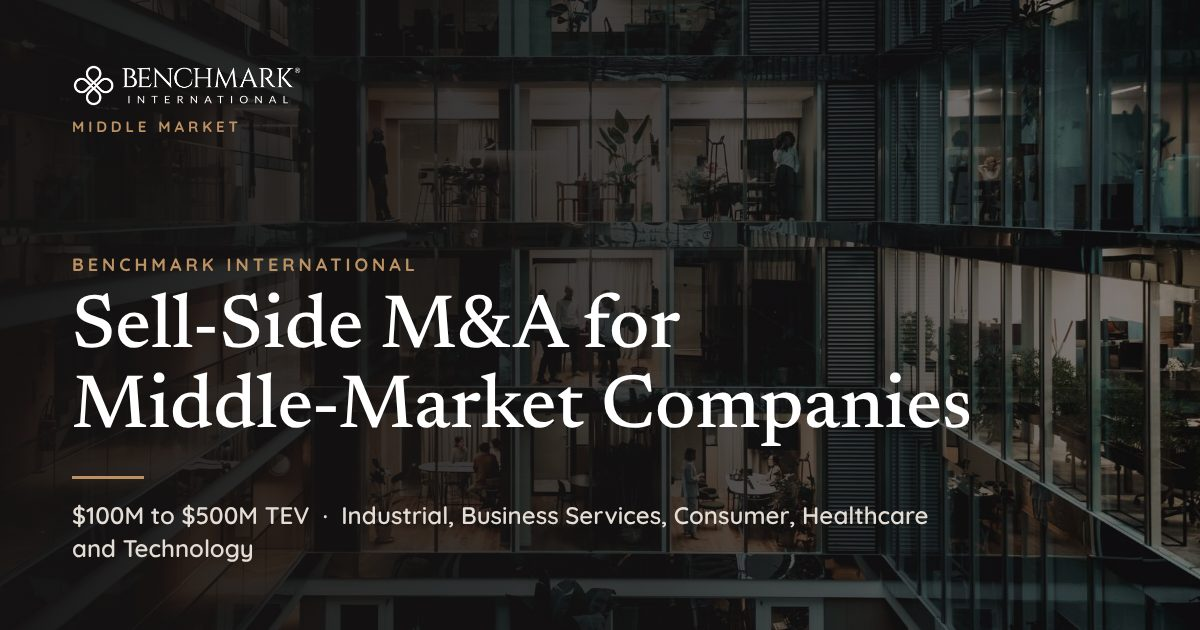
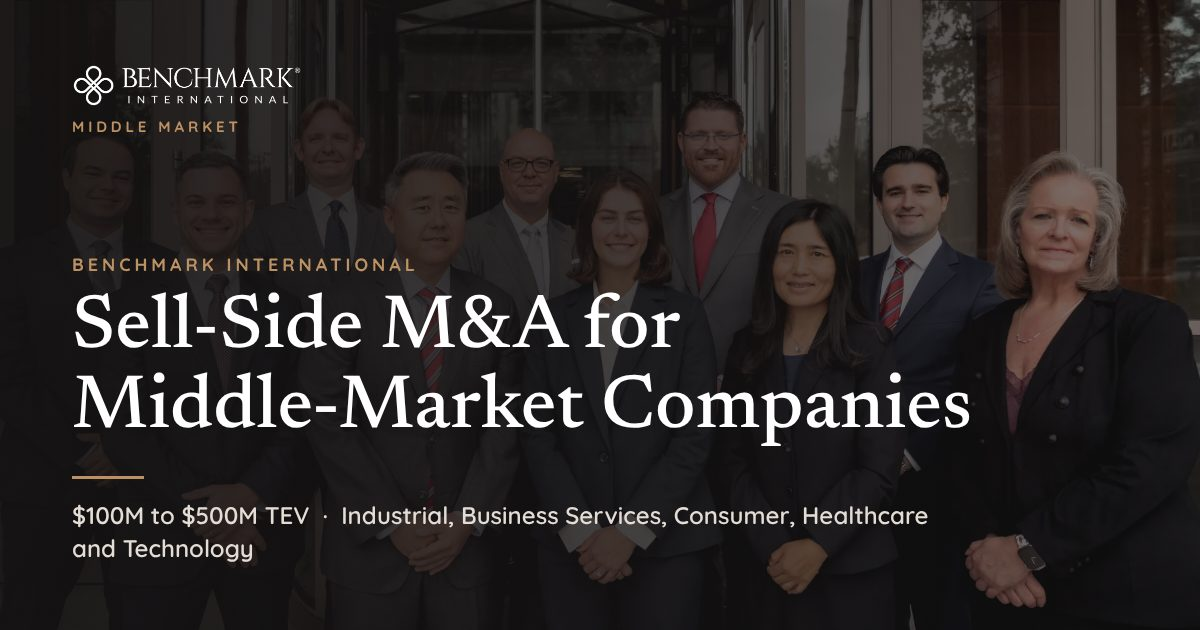
Use the team photo shoot across the general pages

diff --git a/mmt-sandbox-pvxyebvoxa/about.html b/mmt-sandbox-pvxyebvoxa/about.html
@@ -53,7 +53,7 @@
 </header>
 <main id="main">
 
-<section class="hero hero--page">
+<section class="hero hero--page hero--photo"><div class="hero-media" aria-hidden="true"><img src="assets/img/team-photos/dsc07374.webp" alt="" fetchpriority="high" width="2000" height="1333"></div>
   <div class="wrap">
     <div class="crumbs"><a href="index.html">Middle Market</a> / About</div>
     <p class="eyebrow">About</p>
@@ -136,7 +136,8 @@
     <div class="faq"><details class="faq-item"><summary><h3>What does Benchmark International&#x27;s Middle Market team do?</h3></summary><p>Benchmark International&#x27;s Middle Market team provides specialized sell-side M&amp;A advisory services to owners of privately held businesses. Our practice focuses on qualifying mergers, business sales, and controlling ownership transitions, combining strategic transaction planning, financial analysis, buyer identification, negotiation, and disciplined execution.</p></details><details class="faq-item"><summary><h3>What size companies does the Middle Market team advise?</h3></summary><p>Our Middle Market team generally focuses on privately held businesses with enterprise values ranging from $100 million to $500 million, subject to applicable regulatory requirements and transaction eligibility criteria. Our advisory approach is tailored to each company&#x27;s financial profile, ownership structure, strategic objectives, and transaction requirements.</p></details><details class="faq-item"><summary><h3>What industries does the Middle Market team cover?</h3></summary><p>Our practice provides dedicated M&amp;A advisory services across five principal industries: Industrials, Business Services, Consumer, Healthcare, and Technology. Each sector requires a differentiated understanding of financial performance, market dynamics, competitive positioning, and strategic and financial buyer priorities.</p></details><details class="faq-item"><summary><h3>What advisory services does the Middle Market team provide?</h3></summary><p>Our services encompass sell-side mergers and acquisitions, qualifying controlling ownership transactions, strategic buyer identification and engagement, and exit readiness and transaction planning. We advise clients throughout the transaction lifecycle, including valuation analysis, transaction preparation, investment positioning, confidential buyer engagement, negotiation, due diligence coordination, and closing execution.</p></details><details class="faq-item"><summary><h3>How does Benchmark International differentiate its approach?</h3></summary><p>Our Middle Market team combines senior-level transaction leadership, sector specialization, rigorous financial and operational analysis, and disciplined competitive transaction execution. We develop tailored investment theses, identify qualified acquirers with compelling acquisition rationales, and manage transaction processes designed to maximize shareholder value while balancing transaction terms, execution certainty, and ownership objectives.</p></details><details class="faq-item"><summary><h3>Can owners retain equity following a transaction?</h3></summary><p>Certain qualifying controlling ownership transactions may allow existing shareholders to retain an equity interest following closing. The availability of retained ownership arrangements depends on the proposed transaction structure, buyer objectives, shareholder preferences, and applicable regulatory requirements.</p></details><details class="faq-item"><summary><h3>How does an engagement with Benchmark International begin?</h3></summary><p>Our process begins with a confidential discussion to understand the company&#x27;s financial and operational profile, shareholder objectives, and potential transaction considerations. Following an initial assessment, our senior advisors can discuss valuation perspectives, transaction readiness, relevant buyer categories, and a proposed approach to a potential sale process.</p></details><details class="faq-item"><summary><h3>How large is Benchmark International?</h3></summary><p>Benchmark International is an international M&amp;A advisory firm with 15 offices across the Americas, Europe, and Africa, according to its October 2026 company materials. The firm reports recognition as the world&#x27;s leading privately owned sell-side M&amp;A advisor in PitchBook&#x27;s Q2 2026 Global League Tables, subject to the applicable ranking category and methodology.</p></details><details class="faq-item"><summary><h3>How do I contact the Middle Market team?</h3></summary><p>Contact our Middle Market team at <a href="tel:8137716675">813-771-6675</a> or <a href="mailto:mmt@benchmarkintl.com">mmt@benchmarkintl.com</a> to arrange a confidential discussion with a senior M&amp;A advisor.</p></details></div>
   </div>
 </section>
-<section class="section section--knot cta" id="contact">
+<section class="section section--knot section--photo cta" id="contact">
+  <div class="section-media" aria-hidden="true"><img src="assets/img/team-photos/dsc07193.webp" alt="" loading="lazy" width="2000" height="1341"></div>
   <div class="wrap center reveal">
     <p class="eyebrow">Confidential. No pressure. No commitments.</p>
     <h2 class="display">Realize the Full Value of What You&#x27;ve Built.</h2>

diff --git a/mmt-sandbox-pvxyebvoxa/index.html b/mmt-sandbox-pvxyebvoxa/index.html
@@ -53,7 +53,7 @@
 </header>
 <main id="main">
 
-<section class="hero">
+<section class="hero hero--photo"><div class="hero-media" aria-hidden="true"><img src="assets/img/team-photos/dsc07377.webp" alt="" fetchpriority="high" width="2000" height="1334"></div>
   <div class="wrap">
     <p class="eyebrow">Benchmark International · <span class="nowrap">Middle Market</span></p>
     <h1 class="display">Your Legacy Is Built. <em>Your Next Chapter Awaits.</em></h1>
@@ -66,7 +66,7 @@
 </section>
 
 <section class="section--dark section--tight section--photo section--photo-soft">
-  <div class="section-media" aria-hidden="true"><img src="assets/img/site/stats-bg.jpg" alt="" width="1920" height="900"></div>
+  <div class="section-media" aria-hidden="true"><img src="assets/img/team-photos/dsc07322.webp" alt="" loading="lazy" width="2000" height="1333"></div>
   <div class="wrap">
     <div class="stats">
       <div class="stat"><div class="stat-num">#1</div><div class="stat-label">Privately owned sell-side M&amp;A advisor worldwide<sup>*</sup></div></div>
@@ -157,16 +157,16 @@
       <p class="lead">We serve presidents, CEOs, founders, and owners of privately held companies in our five industries. As they consider the next step, most want three things:</p>
     </div>
     <div class="pillars">
-      <div class="pillar pillar--photo reveal"><div class="pillar-photo"><img src="assets/img/site/journey-1.jpg" alt="" loading="lazy" width="900" height="600"></div><div class="pillar-num">01</div><h3 class="h3">Understand Every Option</h3><p>We'll walk you through every path, from a full sale to a merger or change-of-control transaction, with buyers from across the country and around the world.</p></div>
-      <div class="pillar pillar--photo reveal"><div class="pillar-photo"><img src="assets/img/site/journey-2.jpg" alt="" loading="lazy" width="900" height="600"></div><div class="pillar-num">02</div><h3 class="h3">Be Positioned for Maximum Value</h3><p>We'll help you see your company the way buyers do, so you can address gaps and highlight strengths before going to market.</p></div>
-      <div class="pillar pillar--photo reveal"><div class="pillar-photo"><img src="assets/img/site/journey-3.jpg" alt="" loading="lazy" width="900" height="600"></div><div class="pillar-num">03</div><h3 class="h3">Execute with Confidence</h3><p>While you weigh your options, our experienced team works as your partner, running a discreet process to secure the right deal on your terms.</p></div>
+      <div class="pillar pillar--photo reveal"><div class="pillar-photo"><img src="assets/img/team-photos/dsc07199-sm.webp" alt="" loading="lazy" width="1000" height="695"></div><div class="pillar-num">01</div><h3 class="h3">Understand Every Option</h3><p>We'll walk you through every path, from a full sale to a merger or change-of-control transaction, with buyers from across the country and around the world.</p></div>
+      <div class="pillar pillar--photo reveal"><div class="pillar-photo"><img src="assets/img/team-photos/dsc06716-sm.webp" alt="" loading="lazy" width="1000" height="667"></div><div class="pillar-num">02</div><h3 class="h3">Be Positioned for Maximum Value</h3><p>We'll help you see your company the way buyers do, so you can address gaps and highlight strengths before going to market.</p></div>
+      <div class="pillar pillar--photo reveal"><div class="pillar-photo"><img src="assets/img/team-photos/dsc07004-sm.webp" alt="" loading="lazy" width="1000" height="667"></div><div class="pillar-num">03</div><h3 class="h3">Execute with Confidence</h3><p>While you weigh your options, our experienced team works as your partner, running a discreet process to secure the right deal on your terms.</p></div>
     </div>
   </div>
 </section>
 
 <section class="section section--dark" id="who-we-help">
   <div class="wrap fit-split">
-    <figure class="fit-photo reveal" aria-hidden="true"><img src="assets/img/site/who-we-help.jpg" alt="" loading="lazy" width="900" height="1100"></figure>
+    <figure class="fit-photo reveal" aria-hidden="true"><img src="assets/img/team-photos/dsc07035-sm.webp" alt="" loading="lazy" width="667" height="1000"></figure>
     <div>
     <div class="section-head reveal">
       <p class="eyebrow">Who We Help</p>
@@ -466,7 +466,7 @@
   </div>
 </section>
 <section class="section section--knot section--photo section--photo-soft contact" id="contact">
-  <div class="section-media" aria-hidden="true"><img src="assets/img/site/contact-bg.jpg" alt="" loading="lazy" width="1920" height="1100"></div>
+  <div class="section-media" aria-hidden="true"><img src="assets/img/team-photos/dsc07355.webp" alt="" loading="lazy" width="2000" height="1334"></div>
   <div class="wrap contact-grid">
     <div class="contact-info reveal">
       <p class="eyebrow">Confidential. No pressure. No commitments.</p>

diff --git a/mmt-sandbox-pvxyebvoxa/transactions.html b/mmt-sandbox-pvxyebvoxa/transactions.html
@@ -53,7 +53,7 @@
 </header>
 <main id="main">
 
-<section class="hero hero--page hero--photo"><div class="hero-media" aria-hidden="true"><img src="assets/img/site/transactions-hero.jpg" alt="" width="1920" height="1000" fetchpriority="high"></div>
+<section class="hero hero--page hero--photo"><div class="hero-media" aria-hidden="true"><img src="assets/img/team-photos/dsc07122.webp" alt="" fetchpriority="high" width="2000" height="1334"></div>
   <div class="wrap">
     <div class="crumbs"><a href="index.html">Middle Market</a> / Transactions</div>
     <p class="eyebrow">Our Success</p>
@@ -71,7 +71,8 @@
     <p class="note">Source: Benchmark International transaction announcements and benchmarkintl.com/about/our-success, as of October 2026. Selected transactions shown.</p>
   </div>
 </section>
-<section class="section section--knot cta" id="contact">
+<section class="section section--knot section--photo cta" id="contact">
+  <div class="section-media" aria-hidden="true"><img src="assets/img/team-photos/dsc07193.webp" alt="" loading="lazy" width="2000" height="1341"></div>
   <div class="wrap center reveal">
     <p class="eyebrow">Confidential. No pressure. No commitments.</p>
     <h2 class="display">It All Starts With a Conversation</h2>

diff --git a/mmt-sandbox-pvxyebvoxa/industries/index.html b/mmt-sandbox-pvxyebvoxa/industries/index.html
@@ -53,7 +53,7 @@
 </header>
 <main id="main">
 
-<section class="hero hero--page">
+<section class="hero hero--page hero--photo"><div class="hero-media" aria-hidden="true"><img src="../assets/img/team-photos/dsc06798.webp" alt="" fetchpriority="high" width="2000" height="1333"></div>
   <div class="wrap">
     <div class="crumbs"><a href="../index.html">Middle Market</a> / Industries</div>
     <p class="eyebrow">Industry Expertise</p>
@@ -149,7 +149,8 @@
 </article></div>
   <div class="wrap"><p class="note">† Completed transactions tagged to each industry on benchmarkintl.com/about/our-success, as of October 2026.</p></div>
 </section>
-<section class="section section--knot cta" id="contact">
+<section class="section section--knot section--photo cta" id="contact">
+  <div class="section-media" aria-hidden="true"><img src="../assets/img/team-photos/dsc07193.webp" alt="" loading="lazy" width="2000" height="1341"></div>
   <div class="wrap center reveal">
     <p class="eyebrow">Confidential. No pressure. No commitments.</p>
     <h2 class="display">It All Starts With a Conversation</h2>

diff --git a/mmt-sandbox-pvxyebvoxa/insights/index.html b/mmt-sandbox-pvxyebvoxa/insights/index.html
@@ -53,7 +53,7 @@
 </header>
 <main id="main">
 
-<section class="hero hero--page">
+<section class="hero hero--page hero--photo"><div class="hero-media" aria-hidden="true"><img src="../assets/img/team-photos/dsc06747.webp" alt="" fetchpriority="high" width="2000" height="1331"></div>
   <div class="wrap">
     <div class="crumbs"><a href="../index.html">Middle Market</a> / Insights</div>
     <p class="eyebrow">Insights</p>
@@ -150,7 +150,8 @@
     </div>
   </div>
 </section>
-<section class="section section--knot cta" id="contact">
+<section class="section section--knot section--photo cta" id="contact">
+  <div class="section-media" aria-hidden="true"><img src="../assets/img/team-photos/dsc07193.webp" alt="" loading="lazy" width="2000" height="1341"></div>
   <div class="wrap center reveal">
     <p class="eyebrow">Confidential. No pressure. No commitments.</p>
     <h2 class="display">Curious What This Means for Your Business?</h2>

diff --git a/mmt-sandbox-pvxyebvoxa/industries/consumer.html b/mmt-sandbox-pvxyebvoxa/industries/consumer.html
@@ -285,7 +285,8 @@
     <a href="healthcare.html" style="text-align:right"><small>Next industry →</small><strong>Healthcare</strong></a>
   </div>
 </section>
-<section class="section section--knot cta" id="contact">
+<section class="section section--knot section--photo cta" id="contact">
+  <div class="section-media" aria-hidden="true"><img src="../assets/img/team-photos/dsc07193.webp" alt="" loading="lazy" width="2000" height="1341"></div>
   <div class="wrap center reveal">
     <p class="eyebrow">Confidential. No pressure. No commitments.</p>
     <h2 class="display">You&#x27;ve Built a Valuable Business. Position It for an Exceptional Outcome.</h2>

diff --git a/mmt-sandbox-pvxyebvoxa/industries/industrial.html b/mmt-sandbox-pvxyebvoxa/industries/industrial.html
@@ -299,7 +299,8 @@
     <a href="business-services.html" style="text-align:right"><small>Next industry →</small><strong>Business Services</strong></a>
   </div>
 </section>
-<section class="section section--knot cta" id="contact">
+<section class="section section--knot section--photo cta" id="contact">
+  <div class="section-media" aria-hidden="true"><img src="../assets/img/team-photos/dsc07193.webp" alt="" loading="lazy" width="2000" height="1341"></div>
   <div class="wrap center reveal">
     <p class="eyebrow">Confidential. No pressure. No commitments.</p>
     <h2 class="display">Your Business Deserves a Thoughtfully Executed Exit.</h2>

diff --git a/mmt-sandbox-pvxyebvoxa/industries/technology.html b/mmt-sandbox-pvxyebvoxa/industries/technology.html
@@ -290,7 +290,8 @@
     <a href="industrial.html" style="text-align:right"><small>Next industry →</small><strong>Industrials</strong></a>
   </div>
 </section>
-<section class="section section--knot cta" id="contact">
+<section class="section section--knot section--photo cta" id="contact">
+  <div class="section-media" aria-hidden="true"><img src="../assets/img/team-photos/dsc07193.webp" alt="" loading="lazy" width="2000" height="1341"></div>
   <div class="wrap center reveal">
     <p class="eyebrow">Confidential. No pressure. No commitments.</p>
     <h2 class="display">Realize the Full Value of Your Technology Business.</h2>

diff --git a/mmt-sandbox-pvxyebvoxa/industries/healthcare.html b/mmt-sandbox-pvxyebvoxa/industries/healthcare.html
@@ -290,7 +290,8 @@
     <a href="technology.html" style="text-align:right"><small>Next industry →</small><strong>Technology</strong></a>
   </div>
 </section>
-<section class="section section--knot cta" id="contact">
+<section class="section section--knot section--photo cta" id="contact">
+  <div class="section-media" aria-hidden="true"><img src="../assets/img/team-photos/dsc07193.webp" alt="" loading="lazy" width="2000" height="1341"></div>
   <div class="wrap center reveal">
     <p class="eyebrow">Confidential. No pressure. No commitments.</p>
     <h2 class="display">Realize the Full Value of Your Healthcare Business.</h2>

diff --git a/mmt-sandbox-pvxyebvoxa/industries/business-services.html b/mmt-sandbox-pvxyebvoxa/industries/business-services.html
@@ -299,7 +299,8 @@
     <a href="consumer.html" style="text-align:right"><small>Next industry →</small><strong>Consumer</strong></a>
   </div>
 </section>
-<section class="section section--knot cta" id="contact">
+<section class="section section--knot section--photo cta" id="contact">
+  <div class="section-media" aria-hidden="true"><img src="../assets/img/team-photos/dsc07193.webp" alt="" loading="lazy" width="2000" height="1341"></div>
   <div class="wrap center reveal">
     <p class="eyebrow">Confidential. No pressure. No commitments.</p>
     <h2 class="display">Maximize the Value of What You&#x27;ve Built.</h2>

diff --git a/mmt-sandbox-pvxyebvoxa/_build/build.py b/mmt-sandbox-pvxyebvoxa/_build/build.py
@@ -668,7 +668,8 @@ def cta(root, title="It All Starts With a Conversation", form=False, sub="", par
     if not form:
         body = (f'<p class="lead"><strong>{e(sub)}</strong></p>' if sub else "") + "".join(f'<p class="lead">{e(x)}</p>' for x in paras) if paras else \
             '<p class="lead">Our first step is always a confidential conversation exploring your goals, your company, and your options.</p>'
-        return f"""<section class="section section--knot cta" id="contact">
+        return f"""<section class="section section--knot section--photo cta" id="contact">
+  <div class="section-media" aria-hidden="true">{team_img("cta", root)}</div>
   <div class="wrap center reveal">
     <p class="eyebrow">Confidential. No pressure. No commitments.</p>
     <h2 class="display">{e(title)}</h2>
@@ -689,7 +690,7 @@ def cta(root, title="It All Starts With a Conversation", form=False, sub="", par
     icon_mail = '<svg width="22" height="22" viewBox="0 0 24 24" fill="none" stroke="currentColor" stroke-width="1.5" aria-hidden="true"><rect x="2" y="4" width="20" height="16" rx="2"/><path d="m22 6-10 7L2 6"/></svg>'
     icon_lock = '<svg width="16" height="16" viewBox="0 0 24 24" fill="none" stroke="currentColor" stroke-width="1.5" aria-hidden="true"><rect x="4" y="11" width="16" height="10" rx="2"/><path d="M8 11V7a4 4 0 0 1 8 0v4"/></svg>'
     return f"""<section class="section section--knot section--photo section--photo-soft contact" id="contact">
-  <div class="section-media" aria-hidden="true"><img src="{root}assets/img/site/contact-bg.jpg" alt="" loading="lazy" width="1920" height="1100"></div>
+  <div class="section-media" aria-hidden="true">{team_img("contact", root)}</div>
   <div class="wrap contact-grid">
     <div class="contact-info reveal">
       <p class="eyebrow">Confidential. No pressure. No commitments.</p>
@@ -800,6 +801,40 @@ def deals_in(slug):
                 out.append(dict(t, sector=slug, segment=extra["segment"], sector_name=SECTOR_BY_SLUG[slug]["name"], cross=True))
     return out
 
+
+
+# Photos from the Middle Market team shoot (assets/img/team-photos/, made by team_photos.py) used for the
+# general pages. Industry pages, industry cards and report pages keep their industry photos, and the Team
+# section keeps the individual headshots in assets/img/team/.
+TEAM_PHOTOS = {p["name"]: p for p in json.load(open(os.path.join(SITE, "assets", "img", "team-photos", "photos.json")))}
+TEAM_PHOTO = {
+    "home-hero": "dsc07377",      # the team walking outside the office
+    "stats": "dsc07322",          # the full boardroom
+    "journey-1": "dsc07199",      # Understand Your Options: a one-on-one conversation
+    "journey-2": "dsc06716",      # Be Positioned to Win: analysis at the desk
+    "journey-3": "dsc07004",      # Execute with Confidence: the deal team around the laptop
+    "who-we-help": "dsc07035",    # portrait, the team reviewing a deal together
+    "contact": "dsc07355",        # two Managing Directors at the table
+    "cta": "dsc07193",            # the closing band on every other page: a private conversation at the table
+    "about-hero": "dsc07374",     # the team in front of the office
+    "transactions-hero": "dsc07122",  # the boardroom
+    "insights-hero": "dsc06747",  # research at the desk
+    "industries-hero": "dsc06798",    # the open office
+}
+
+
+def team_img(key, root="", small=False, cls="", lazy=True, priority=False):
+    """An <img> for one of the team shoot photos (decorative: alt is empty)."""
+    ph = TEAM_PHOTOS[TEAM_PHOTO[key]]
+    v = ph["small" if small else "large"]
+    attrs = (' loading="lazy"' if lazy and not priority else "") + (' fetchpriority="high"' if priority else "")
+    return f'<img src="{root}assets/img/team-photos/{v["file"]}" alt=""{attrs} width="{v["width"]}" height="{v["height"]}"{f" class={cls!r}" if cls else ""}>'
+
+
+def team_hero(key, root="", page=True):
+    """Opening tag of a photo hero using a team shoot photo."""
+    return (f'<section class="hero{" hero--page" if page else ""} hero--photo"><div class="hero-media" aria-hidden="true">'
+            f'{team_img(key, root, priority=True)}</div>')
 
 def photo(slug, name, root):
     """Path to an industry photo from the approved image library (assets/img/industries/<slug>/)."""
@@ -1145,7 +1180,7 @@ def page_home():
                 "Sell-side M&A advisory for owners of privately held companies with $100M–$500M in enterprise value: strategic sales, mergers, and change-of-control transactions.", root)
     html += header(root)
     html += f"""
-<section class="hero">
+{team_hero("home-hero", page=False)}
   <div class="wrap">
     <p class="eyebrow">Benchmark International · <span class="nowrap">Middle Market</span></p>
     <h1 class="display">Your Legacy Is Built. <em>Your Next Chapter Awaits.</em></h1>
@@ -1158,7 +1193,7 @@ def page_home():
 </section>
 
 <section class="section--dark section--tight section--photo section--photo-soft">
-  <div class="section-media" aria-hidden="true"><img src="assets/img/site/stats-bg.jpg" alt="" width="1920" height="900"></div>
+  <div class="section-media" aria-hidden="true">{team_img("stats")}</div>
   <div class="wrap">
     <div class="stats">
       <div class="stat"><div class="stat-num">#1</div><div class="stat-label">Privately owned sell-side M&amp;A advisor worldwide<sup>*</sup></div></div>
@@ -1214,16 +1249,16 @@ def page_home():
       <p class="lead">We serve presidents, CEOs, founders, and owners of privately held companies in our five industries. As they consider the next step, most want three things:</p>
     </div>
     <div class="pillars">
-      <div class="pillar pillar--photo reveal"><div class="pillar-photo"><img src="assets/img/site/journey-1.jpg" alt="" loading="lazy" width="900" height="600"></div><div class="pillar-num">01</div><h3 class="h3">Understand Every Option</h3><p>We'll walk you through every path, from a full sale to a merger or change-of-control transaction, with buyers from across the country and around the world.</p></div>
-      <div class="pillar pillar--photo reveal"><div class="pillar-photo"><img src="assets/img/site/journey-2.jpg" alt="" loading="lazy" width="900" height="600"></div><div class="pillar-num">02</div><h3 class="h3">Be Positioned for Maximum Value</h3><p>We'll help you see your company the way buyers do, so you can address gaps and highlight strengths before going to market.</p></div>
-      <div class="pillar pillar--photo reveal"><div class="pillar-photo"><img src="assets/img/site/journey-3.jpg" alt="" loading="lazy" width="900" height="600"></div><div class="pillar-num">03</div><h3 class="h3">Execute with Confidence</h3><p>While you weigh your options, our experienced team works as your partner, running a discreet process to secure the right deal on your terms.</p></div>
+      <div class="pillar pillar--photo reveal"><div class="pillar-photo">{team_img("journey-1", small=True)}</div><div class="pillar-num">01</div><h3 class="h3">Understand Every Option</h3><p>We'll walk you through every path, from a full sale to a merger or change-of-control transaction, with buyers from across the country and around the world.</p></div>
+      <div class="pillar pillar--photo reveal"><div class="pillar-photo">{team_img("journey-2", small=True)}</div><div class="pillar-num">02</div><h3 class="h3">Be Positioned for Maximum Value</h3><p>We'll help you see your company the way buyers do, so you can address gaps and highlight strengths before going to market.</p></div>
+      <div class="pillar pillar--photo reveal"><div class="pillar-photo">{team_img("journey-3", small=True)}</div><div class="pillar-num">03</div><h3 class="h3">Execute with Confidence</h3><p>While you weigh your options, our experienced team works as your partner, running a discreet process to secure the right deal on your terms.</p></div>
     </div>
   </div>
 </section>
 
 <section class="section section--dark" id="who-we-help">
   <div class="wrap fit-split">
-    <figure class="fit-photo reveal" aria-hidden="true"><img src="assets/img/site/who-we-help.jpg" alt="" loading="lazy" width="900" height="1100"></figure>
+    <figure class="fit-photo reveal" aria-hidden="true">{team_img("who-we-help", small=True)}</figure>
     <div>
     <div class="section-head reveal">
       <p class="eyebrow">Who We Help</p>
@@ -1339,7 +1374,7 @@ def page_industries():
                 "Benchmark International's Middle Market team focuses on five industries: Industrials, Business Services, Consumer, Healthcare, and Technology.", root)
     html += header(root, "industries")
     html += f"""
-<section class="hero hero--page">
+{team_hero("industries-hero", root)}
   <div class="wrap">
     <div class="crumbs"><a href="{root}index.html">Middle Market</a> / Industries</div>
     <p class="eyebrow">Industry Expertise</p>
@@ -1627,7 +1662,7 @@ def page_transactions():
                 "Selected completed sell-side M&A transactions advised by Benchmark International across Industrials, Business Services, Consumer, Healthcare, and Technology.", root)
     html += header(root, "transactions")
     html += f"""
-<section class="hero hero--page hero--photo"><div class="hero-media" aria-hidden="true"><img src="assets/img/site/transactions-hero.jpg" alt="" width="1920" height="1000" fetchpriority="high"></div>
+{team_hero("transactions-hero")}
   <div class="wrap">
     <div class="crumbs"><a href="index.html">Middle Market</a> / Transactions</div>
     <p class="eyebrow">Our Success</p>
@@ -1700,7 +1735,7 @@ def page_insights():
                 "Quarterly middle market M&A reports on deal activity, valuation metrics, and buyer demand in Industrials, Business Services, Consumer, Healthcare, and Technology.", root)
     html += header(root, "insights")
     html += f"""
-<section class="hero hero--page">
+{team_hero("insights-hero", root)}
   <div class="wrap">
     <div class="crumbs"><a href="{root}index.html">Middle Market</a> / Insights</div>
     <p class="eyebrow">Insights</p>
@@ -1938,7 +1973,7 @@ def page_about():
                 "Benchmark International's Middle Market team: sell-side M&A advisory for privately held companies with $100M–$500M in enterprise value across five industries.", root)
     html += header(root)
     html += f"""
-<section class="hero hero--page">
+{team_hero("about-hero", root)}
   <div class="wrap">
     <div class="crumbs"><a href="index.html">Middle Market</a> / About</div>
     <p class="eyebrow">About</p>

diff --git a/mmt-sandbox-pvxyebvoxa/_build/social.py b/mmt-sandbox-pvxyebvoxa/_build/social.py
@@ -36,7 +36,7 @@ h1 {{ font-family: 'Newsreader', serif; font-weight: 500; font-size: 76px; line-
 def main():
     os.makedirs(OUT, exist_ok=True)
     img = lambda rel: 'file://' + os.path.join(SITE, rel)
-    jobs = [('default', card(img('assets/img/site/stats-bg.jpg'), 'Benchmark International',
+    jobs = [('default', card(img('assets/img/team-photos/dsc07374.webp'), 'Benchmark International',
                              'Sell-Side M&amp;A for Middle&#8209;Market Companies',
                              '$100M to $500M TEV &nbsp;·&nbsp; Industrial, Business Services, Consumer, Healthcare and Technology'))]
     for s in site.SECTORS:
